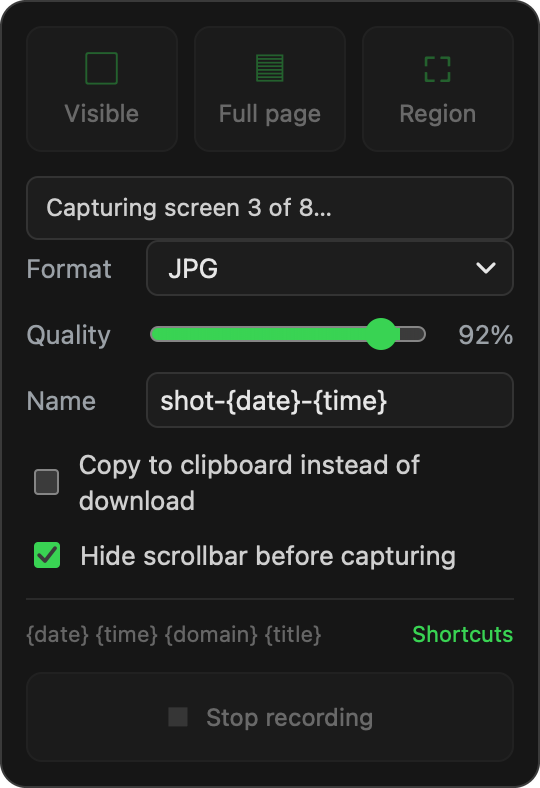
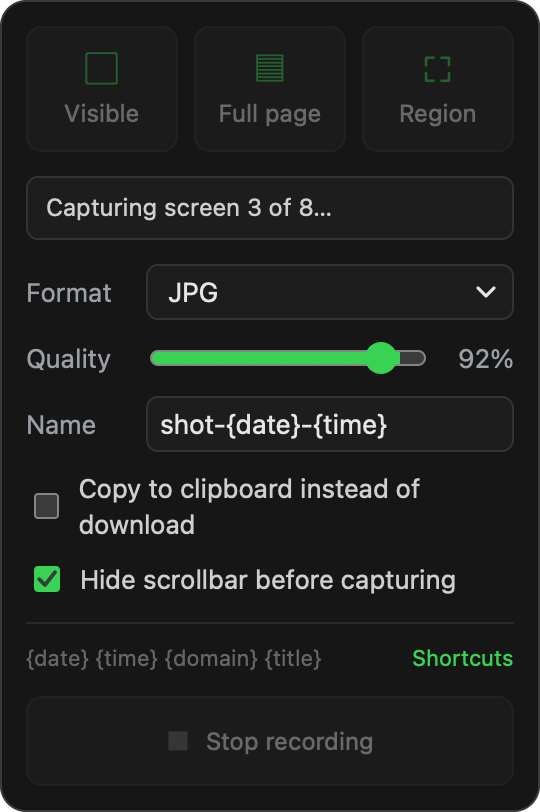
[fix] Space the status and error boxes off the Format row

diff --git a/src/popup/popup.css b/src/popup/popup.css
@@ -28,9 +28,9 @@ body {
 .mode.stop:not(:disabled), .mode.stop:not(:disabled):hover { border-color: #e5534b; }
 .mode.stop:not(:disabled) .ico { color: #e5534b; }
 .mode.stop:disabled .ico { color: #666; }
-.err { margin: 8px 0 0; padding: 7px 9px; background: #2a1414; border: 1px solid #e5534b; border-radius: 6px; color: #ff9b94; font-size: 12px; }
+.err { margin: 0 0 12px; padding: 7px 9px; background: #2a1414; border: 1px solid #e5534b; border-radius: 6px; color: #ff9b94; font-size: 12px; }
 /* How a Visible or Full page capture is going, and that it was saved or copied (KAN-220). */
-.status { margin: 8px 0 0; padding: 7px 9px; background: #1d1d1d; border: 1px solid #333; border-radius: 6px; color: #cfcfcf; font-size: 12px; }
+.status { margin: 0 0 12px; padding: 7px 9px; background: #1d1d1d; border: 1px solid #333; border-radius: 6px; color: #cfcfcf; font-size: 12px; }
 .opts { display: flex; flex-direction: column; gap: 9px; }
 .row { display: flex; align-items: center; gap: 8px; }
 .row > span:first-child { width: 52px; color: #9aa0a6; flex-shrink: 0; }
